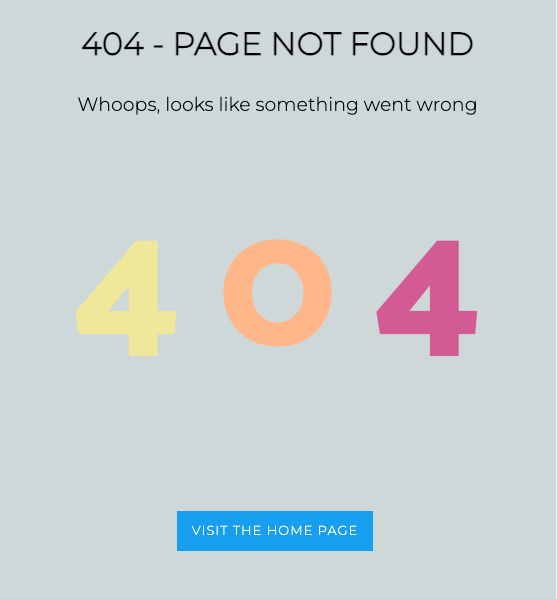
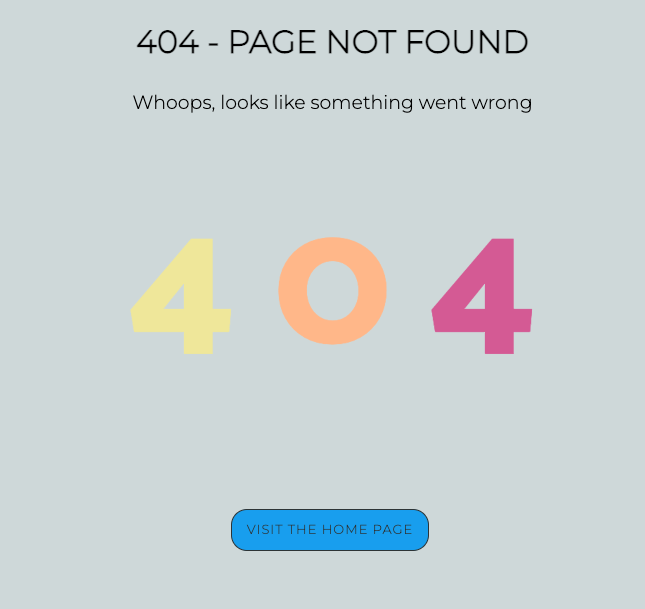
Style a 404 button page

diff --git a/assets/css/style.css b/assets/css/style.css
@@ -309,18 +309,14 @@ div#map {
     100% {
         transform: rotateX(0);
     }
-} /* demo stuff */
+} 
+
+/* demo stuff */
 * {
     -webkit-box-sizing: border-box;
     -moz-box-sizing: border-box;
     box-sizing: border-box;
 }
-/* body {
-    background-color: #f4f4f4;
-    margin-bottom: 50px;
-} */
-/* html, */
-
 
 select,
 textarea {
@@ -345,7 +341,8 @@ a.more-link {
     font-size: 13px;
     background-color: #0ba5f1;
     padding: 10px 15px;
-    border-radius: 0;
+    border: 1px solid;
+    border-radius: 1rem;
     color: #2d3436;
     display: inline-block;
     margin-right: 5px;
